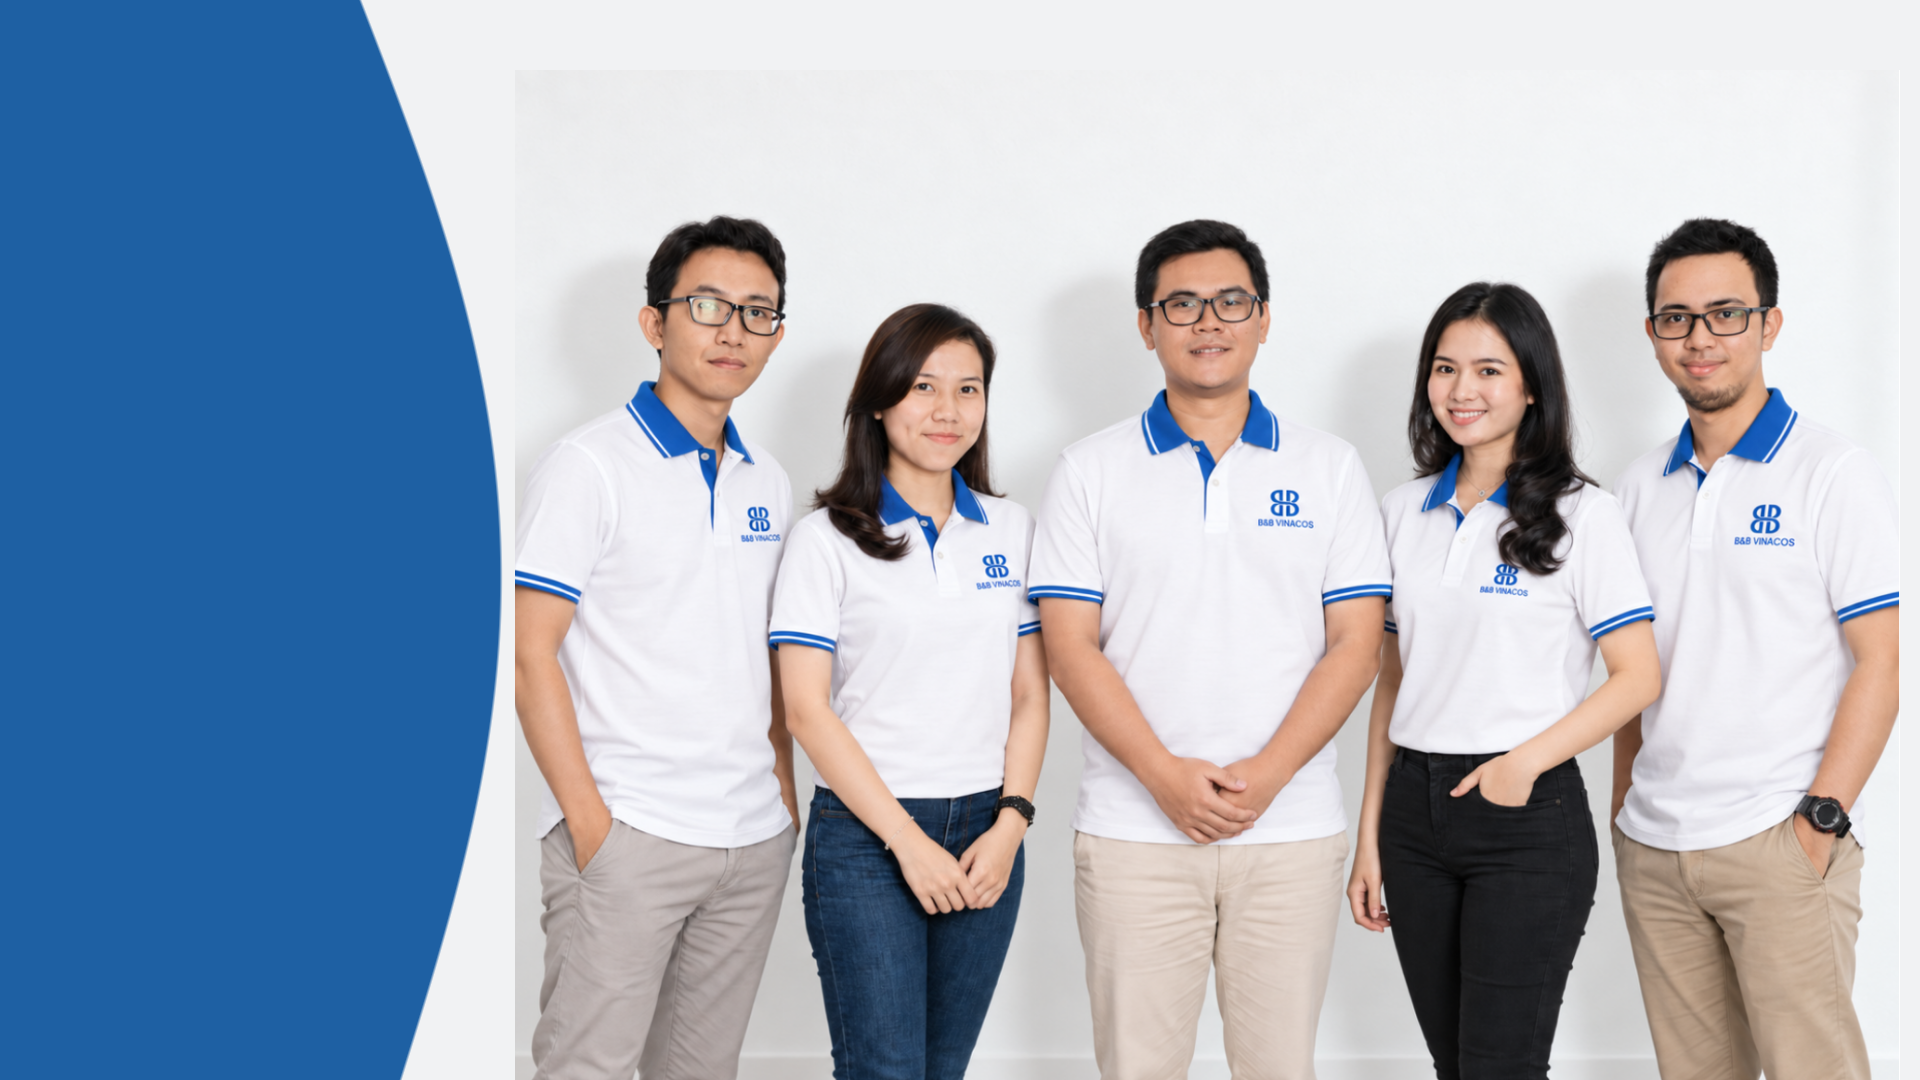
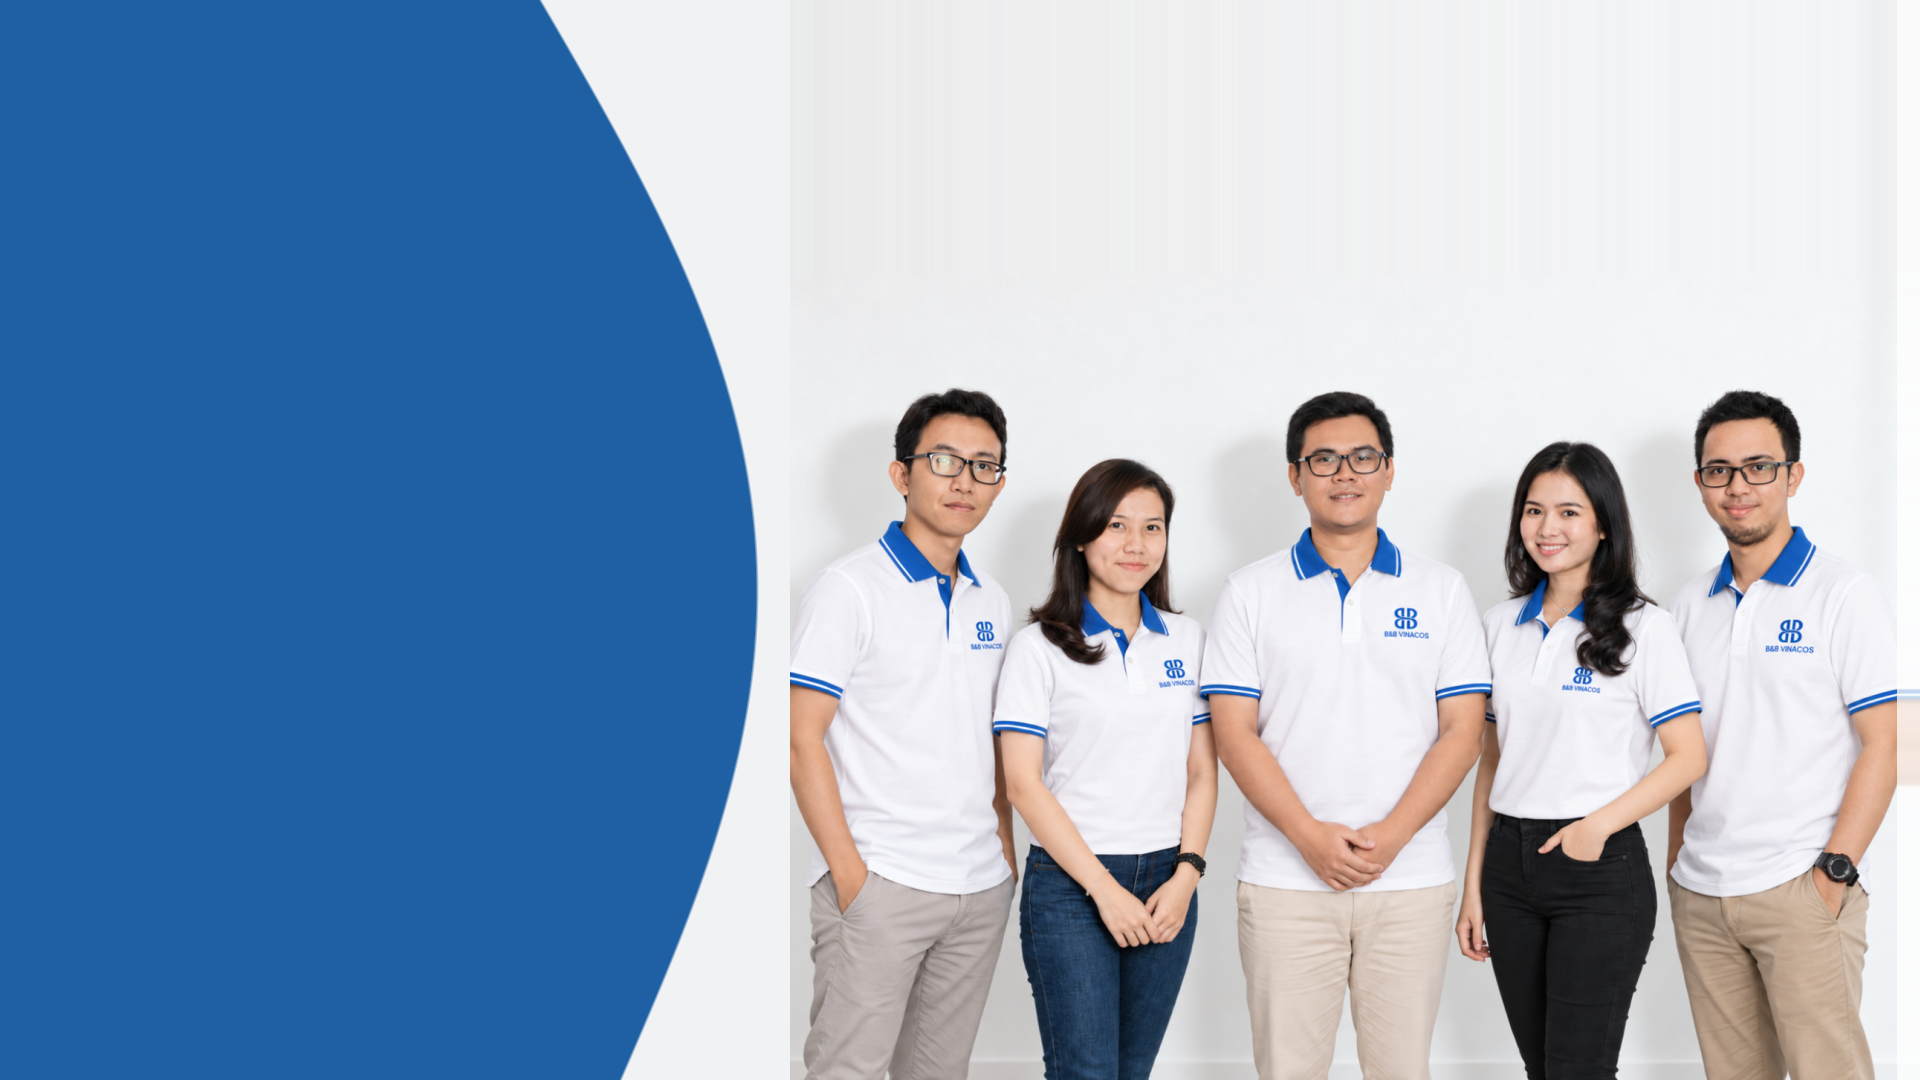
feat(home): scale team photo, enlarge blue area for text, and add separate mobile image ACF field

diff --git a/wp/wp-content/themes/spl/parts/home/rd-system.php b/wp/wp-content/themes/spl/parts/home/rd-system.php
@@ -80,7 +80,7 @@ if ( $is_en && ( 'Tìm hiểu thêm' === $btn_text || 'Xem thêm' === $btn_text 
 	$btn_text = 'Learn More';
 }
 
-// Background image: Dùng ảnh trang Tâm thế cộng sự phông xanh dương (bg-rd-system-blue.webp) theo yêu cầu, hoặc ảnh custom từ ACF nếu có
+// Background image (Desktop): Dùng ảnh trang Tâm thế cộng sự phông xanh dương (bg-rd-system-blue.webp) theo yêu cầu, hoặc ảnh custom từ ACF nếu có
 $custom_bg_id = $section['image'] ?? ( $first_item['image'] ?? 0 );
 $bg_url       = '';
 if ( ! empty( $custom_bg_id ) ) {
@@ -89,6 +89,16 @@ if ( ! empty( $custom_bg_id ) ) {
 // Nếu chưa upload ảnh riêng hoặc đang dùng ảnh cũ, mặc định dùng ảnh phông xanh dương bg-rd-system-blue.webp
 if ( empty( $bg_url ) || false !== strpos( $bg_url, 'tam-the-cong-su-vinacos.jpg' ) || false !== strpos( $bg_url, 'bg-rd-system.webp' ) || false !== strpos( $bg_url, 'bg-tam-the-cong-su.webp' ) ) {
 	$bg_url = get_template_directory_uri() . '/static/img/vinacos/bg-rd-system-blue.webp';
+}
+
+// Background image (Mobile): Có field riêng trong ACF để đổi ảnh phù hợp cho mobile
+$custom_mobi_id = $section['image_mobile'] ?? ( $first_item['image_mobile'] ?? 0 );
+$bg_mobi_url    = '';
+if ( ! empty( $custom_mobi_id ) ) {
+	$bg_mobi_url = is_numeric( $custom_mobi_id ) ? wp_get_attachment_image_url( (int) $custom_mobi_id, 'full' ) : (string) $custom_mobi_id;
+}
+if ( empty( $bg_mobi_url ) ) {
+	$bg_mobi_url = $bg_url;
 }
 
 $icon_url = get_template_directory_uri() . '/static/img/vinacos/icon-tam-the-cong-su.webp';
@@ -127,7 +137,7 @@ $icon_url = get_template_directory_uri() . '/static/img/vinacos/icon-tam-the-con
 
 		<!-- Mobile Photo Banner (Visible only on < 1025px, Below text on Mobile) -->
 		<div class="home-rd-mobile-media" data-aos="fade-up" data-aos-duration="700" data-aos-delay="400">
-			<img src="<?php echo esc_url( $bg_url ); ?>" alt="<?php echo esc_attr( wp_strip_all_tags( $badge_text ) ); ?> - VINACOS" loading="lazy" width="800" height="450">
+			<img src="<?php echo esc_url( $bg_mobi_url ); ?>" alt="<?php echo esc_attr( wp_strip_all_tags( $badge_text ) ); ?> - VINACOS" loading="lazy" width="800" height="450">
 		</div>
 	</div>
 </section>

diff --git a/wp/wp-content/themes/spl/inc/acf-page-fields.php b/wp/wp-content/themes/spl/inc/acf-page-fields.php
@@ -237,8 +237,17 @@ function spl_register_all_vinacos_page_acf_fields(): void {
 									],
 									[
 										'key'           => 'field_rd_item_img',
-										'label'         => __( 'Ảnh minh họa', 'spl' ),
+										'label'         => __( 'Ảnh minh họa (Desktop)', 'spl' ),
 										'name'          => 'image',
+										'type'          => 'image',
+										'return_format' => 'id',
+										'preview_size'  => 'medium',
+										'wrapper'       => [ 'width' => '50' ],
+									],
+									[
+										'key'           => 'field_rd_item_img_mobile',
+										'label'         => __( 'Ảnh minh họa (Mobile)', 'spl' ),
+										'name'          => 'image_mobile',
 										'type'          => 'image',
 										'return_format' => 'id',
 										'preview_size'  => 'medium',

diff --git a/wp/wp-content/themes/spl/inc/acf-home-fields.php b/wp/wp-content/themes/spl/inc/acf-home-fields.php
@@ -231,8 +231,17 @@ function spl_register_vinacos_home_acf_fields(): void {
 									],
 									[
 										'key'           => 'field_rd_item_img',
-										'label'         => __( 'Ảnh minh họa', 'spl' ),
+										'label'         => __( 'Ảnh minh họa (Desktop)', 'spl' ),
 										'name'          => 'image',
+										'type'          => 'image',
+										'return_format' => 'id',
+										'preview_size'  => 'medium',
+										'wrapper'       => [ 'width' => '50' ],
+									],
+									[
+										'key'           => 'field_rd_item_img_mobile',
+										'label'         => __( 'Ảnh minh họa (Mobile)', 'spl' ),
+										'name'          => 'image_mobile',
 										'type'          => 'image',
 										'return_format' => 'id',
 										'preview_size'  => 'medium',
